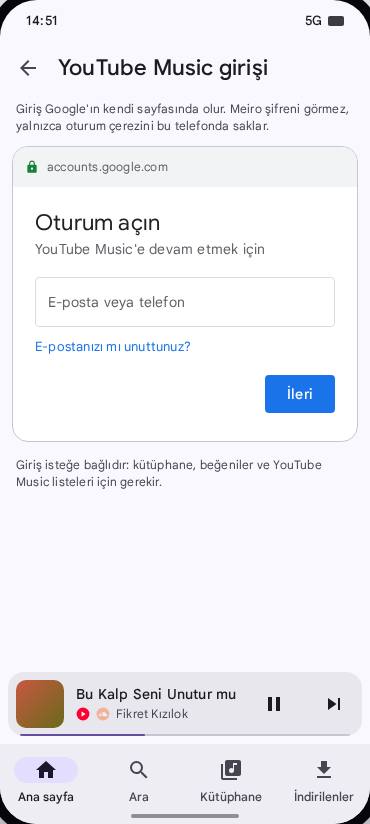
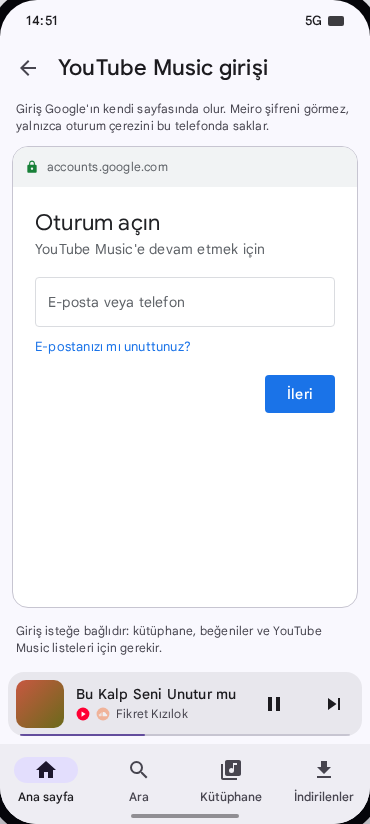
Let the YouTube Music sign-in page fill the screen in the mock

diff --git a/docs/android/mock/index.html b/docs/android/mock/index.html
@@ -400,6 +400,10 @@
   .webview .gi{border:1px solid #dadce0; border-radius:4px; padding:14px 12px; color:#5f6368; margin:18px 0 10px}
   .webview .gb{display:flex; justify-content:flex-end; margin-top:18px}
   .webview .gb span{background:#1a73e8; color:#fff; border-radius:4px; padding:9px 22px; font-weight:500}
+  /* the sign-in page takes the height left between the two notes, so Google's page fits */
+  .fillcol{display:flex; flex-direction:column; min-height:100%}
+  .fillcol .webview{flex:1; display:flex; flex-direction:column}
+  .fillcol .webview .body{flex:1}
 </style>
 </head>
 <body>
@@ -758,10 +762,10 @@ V.settings = () => {
     '<div style="height:24px"></div>';
 };
 V.ytmlogin = () => {
-  return topbar('YouTube Music girişi', {back:true, noAvatar:true}) +
+  return '<div class="fillcol">' + topbar('YouTube Music girişi', {back:true, noAvatar:true}) +
     '<div class="note" style="margin:0 16px 12px">Giriş Google\'ın kendi sayfasında olur. Meiro şifreni görmez, yalnızca oturum çerezini bu telefonda saklar.</div>' +
     '<div class="webview"><div class="url">' + I('lock') + 'accounts.google.com</div><div class="body"><div class="g">Oturum açın</div><div style="color:#5f6368">YouTube Music\'e devam etmek için</div><div class="gi">E-posta veya telefon</div><div style="color:#1a73e8;font-size:13px">E-postanızı mı unuttunuz?</div><div class="gb"><span data-act="ytm-in">İleri</span></div></div></div>' +
-    '<div class="note" style="margin-top:14px">Giriş isteğe bağlıdır: kütüphane, beğeniler ve YouTube Music listeleri için gerekir.</div>';
+    '<div class="note" style="margin-top:14px;margin-bottom:16px">Giriş isteğe bağlıdır: kütüphane, beğeniler ve YouTube Music listeleri için gerekir.</div></div>';
 };
 V.signin = () => {
   return '<div class="welcome"><div class="logo">M</div><h1>Meiro\'ya hoş geldin</h1><p>Listelerin, indirilenlerin ve dinleme özetin Meiro hesabında. Masaüstüyle aynı hesap.</p>' +
